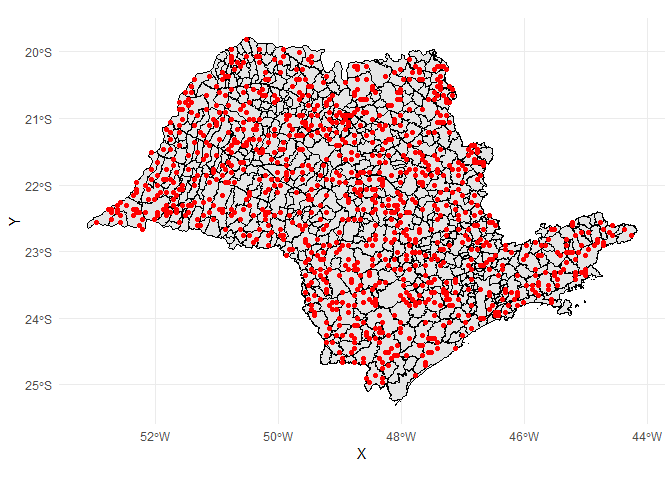
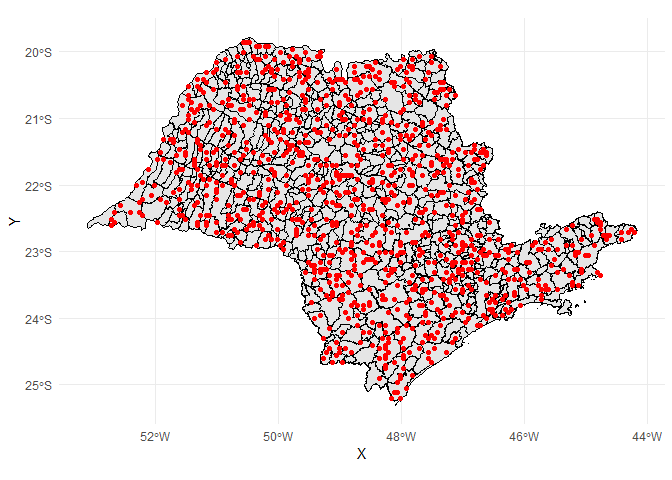
última rodada - TCC

Changed region(s): [[0.1562, 0.0625, 0.9688, 0.8438]]

diff --git a/README.md b/README.md
@@ -834,7 +834,7 @@ plot(da_pad_euc_ward,
 ![](README_files/figure-gfm/unnamed-chunk-29-2.png)<!-- -->
 
 ``` r
-grupo<-cutree(da_pad_euc_ward,5)
+grupo<-cutree(da_pad_euc_ward,4)
 
 city_kgr_beta_group <- city_kgr_beta |> 
   left_join(
@@ -1141,7 +1141,8 @@ kgr_maps_beta_cover_group <- kgr_maps_beta |>
       select( name_muni, grupo) |> 
       rename(city = name_muni),
     by=c("city")
-    )
+    ) |> 
+  select(-xco2, -xco2_std, -year, -season_year, -season)
 ```
 
 ``` r
@@ -1167,11 +1168,103 @@ kgr_maps_beta_cover_group |>
   coord_equal() +
   labs(x="Longitude",
        y="Latitude",
-       fill="Uso do solo") +
+       fill="Cluster") +
   theme_bw()
 ```
 
 ![](README_files/figure-gfm/unnamed-chunk-38-2.png)<!-- -->
+
+O arquivo `kgr_maps_beta_cover_group` associa todos os resultados até
+aqui gerados, Betas, krigagem, usos do solo.
+
+``` r
+kgr_maps_beta_cover_group |> 
+  mutate(
+    descricao = ifelse(descricao %in% my_top_7_cover,
+                         descricao, "Other")
+  ) |> 
+  group_by(grupo) |> 
+  summarise(
+    N = n(),
+    MEAN = mean(beta),
+    MEDIAN = median(beta),
+    STD_DV = sd(beta),
+    SKW = agricolae::skewness(beta),
+    KRT = agricolae::kurtosis(beta),
+  )
+#> # A tibble: 4 × 7
+#>   grupo     N   MEAN MEDIAN STD_DV    SKW     KRT
+#>   <int> <int>  <dbl>  <dbl>  <dbl>  <dbl>   <dbl>
+#> 1     1  2140 0.0687 0.0698 0.0514 -0.172  2.11  
+#> 2     2  2480 0.125  0.130  0.0503 -0.200 -0.0986
+#> 3     3   805 0.105  0.0971 0.0358  0.559 -0.454 
+#> 4     4  3265 0.0654 0.0684 0.0572 -0.328  1.40
+```
+
+``` r
+kgr_maps_beta_cover_group |> 
+  mutate(
+    descricao = ifelse(descricao %in% my_top_7_cover,
+                         descricao, "Other")
+  ) |> 
+  group_by(grupo,descricao) |> 
+  summarise(
+    count = n()
+  ) |> 
+  group_by(grupo) |> 
+  mutate(
+    perc = count/sum(count)
+  ) |> 
+  ungroup() |> 
+  ggplot(aes(y=perc*100,x=as_factor(grupo),fill=descricao)) +
+  geom_col(color = "black") +
+  scale_fill_manual(values = paleta_cores) +
+  theme_bw()
+```
+
+![](README_files/figure-gfm/unnamed-chunk-40-1.png)<!-- -->
+
+``` r
+kgr_maps_beta_cover_group |> 
+  mutate(
+    descricao = ifelse(descricao %in% my_top_7_cover,
+                         descricao, "Other")
+  ) |> 
+  ggplot(aes(x=as_factor(grupo), y=beta, fill=as_factor(grupo))) +
+  geom_boxplot() +
+  scale_fill_viridis_d() +
+  theme_bw()
+```
+
+![](README_files/figure-gfm/unnamed-chunk-41-1.png)<!-- -->
+
+``` r
+kgr_maps_beta_cover_group |> 
+  mutate(
+    descricao = ifelse(descricao %in% my_top_7_cover,
+                         descricao, "Other")
+  ) |> 
+  ggplot(aes(y=as_factor(grupo))) +
+  geom_density_ridges(rel_min_height = 0.03,
+                      aes(x=beta, fill=as_factor(grupo)),
+                      alpha = .6, color = "black"
+  ) +
+  # scale_fill_cyclical(values = c("#ff8080","#238B45"),
+  #                     name = "classe", guide = "legend") +
+  theme_ridges()
+```
+
+![](README_files/figure-gfm/unnamed-chunk-42-1.png)<!-- -->
+
+``` r
+# primeiro analisa xCO2
+# depois, analisa beta xCO2 período
+# beta xCO2 período poderia ser maior ou menor com a MUDANÇA no uso da terra
+# se passou de pastagem para cana por exemplo
+# tem isso também, a mudança no uso da terra pode estar influenciando na derivada xCO2
+# agora, valor médio xCO2, acredito, próximo oceano menor
+# do que pro interior
+```
 
 ### 5) Caracterização da Série Temporal
 
